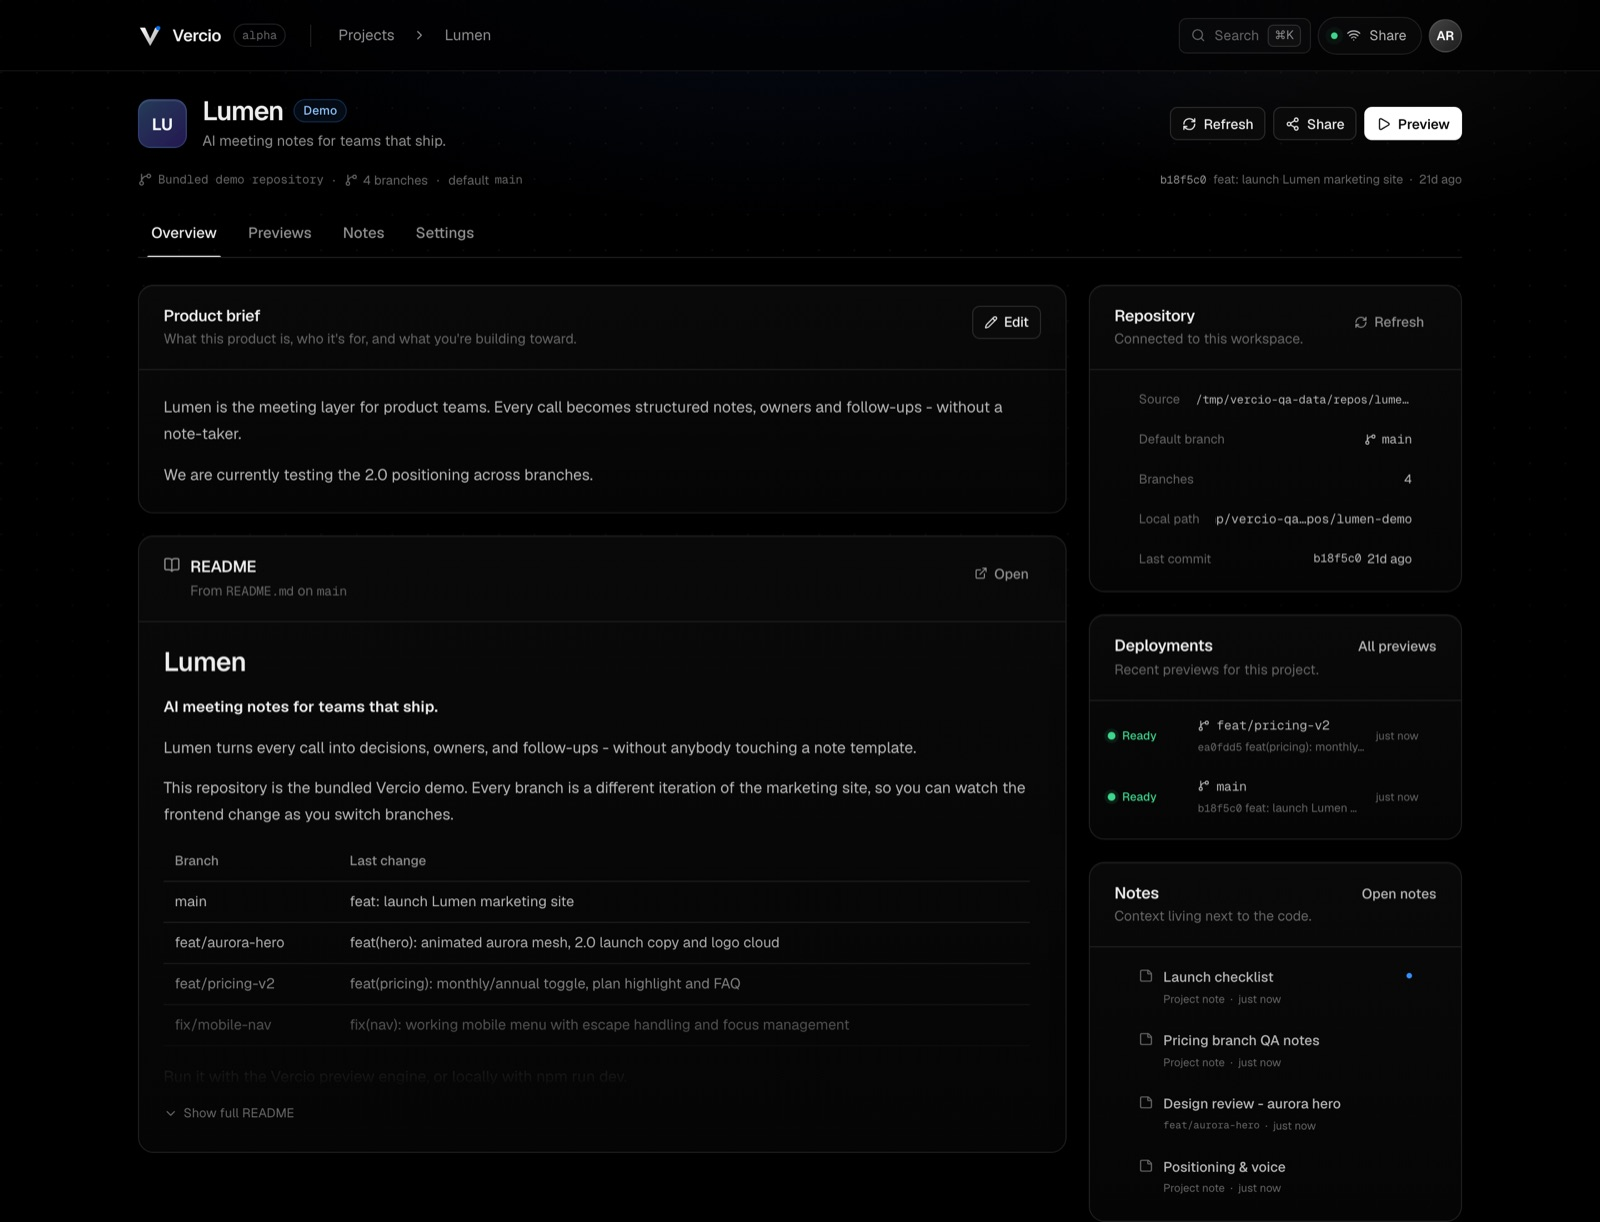
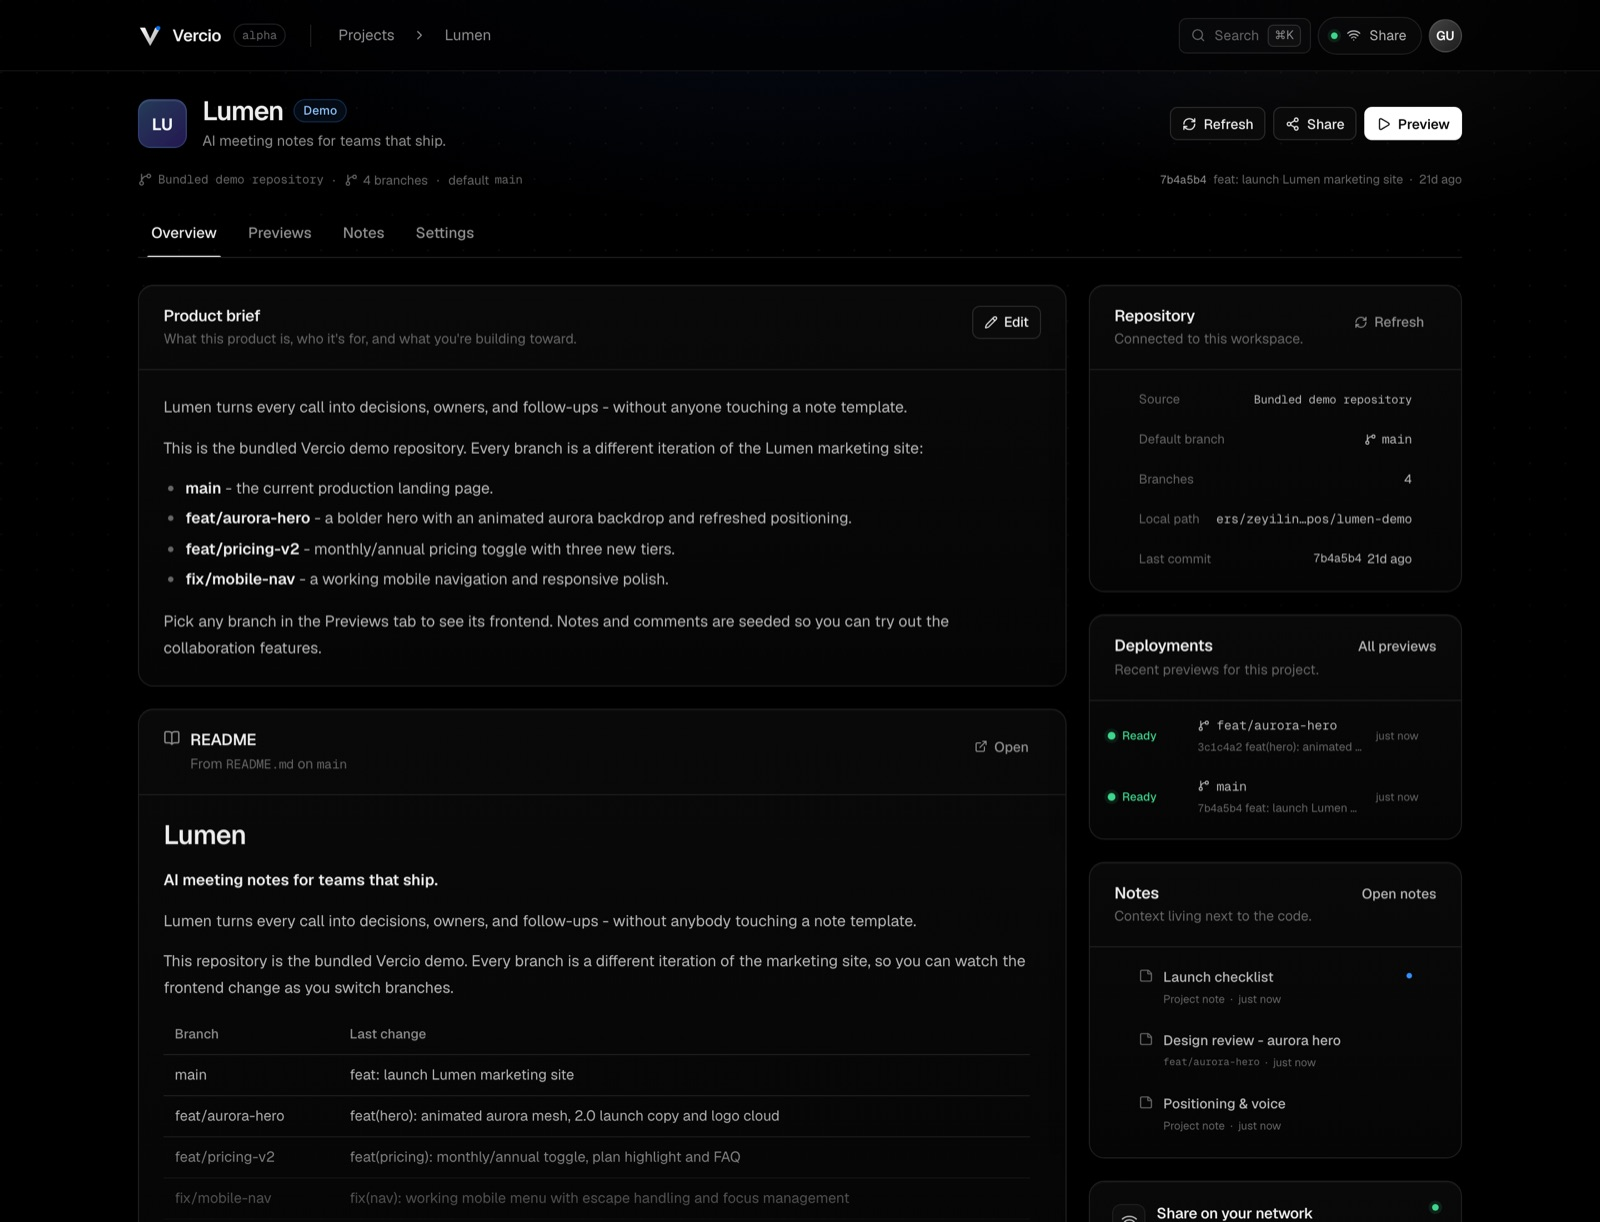
docs: refresh overview and sharing screenshots; label bundled demo source

diff --git a/web/src/pages/ProjectOverview.tsx b/web/src/pages/ProjectOverview.tsx
@@ -99,9 +99,11 @@ export function ProjectOverview({
     }
   };
 
-  const sourceLabel = project.source.url
-    ? project.source.url.replace(/^https?:\/\//, "")
-    : truncateMiddle(project.repoPath, 40);
+  const sourceLabel = project.isDemo
+    ? "Bundled demo repository"
+    : project.source.url
+      ? project.source.url.replace(/^https?:\/\//, "")
+      : truncateMiddle(project.repoPath, 40);
 
   return (
     <div className="overview-grid">
